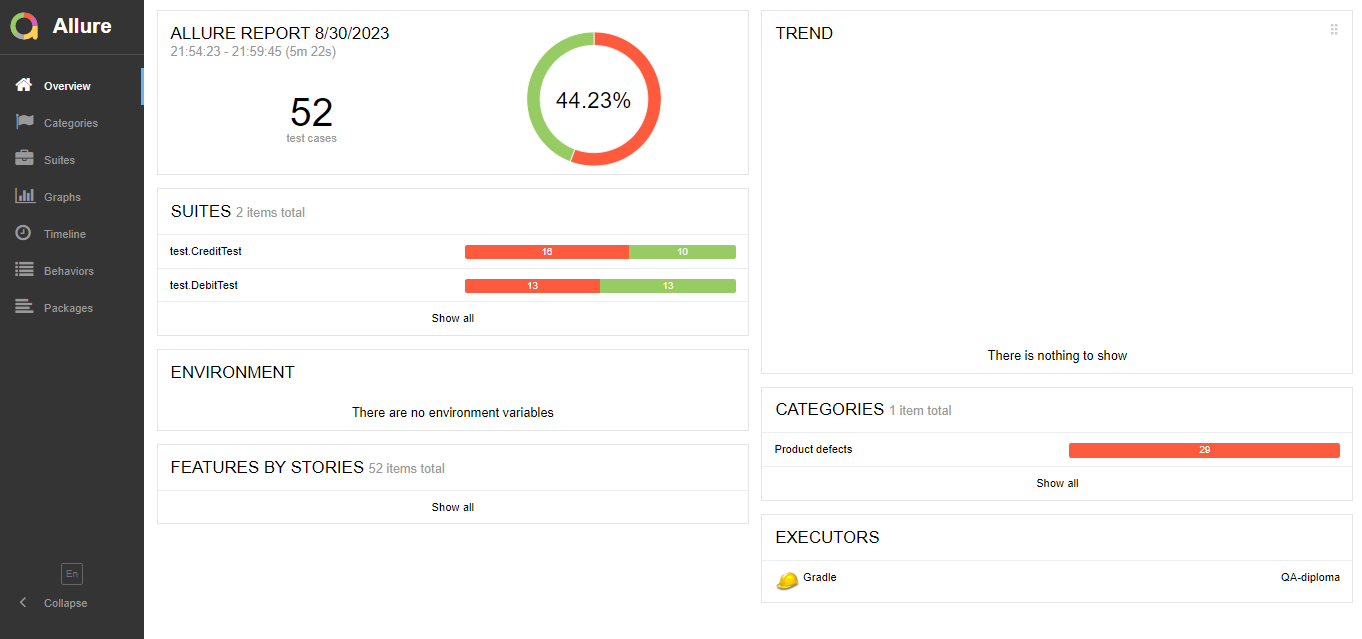
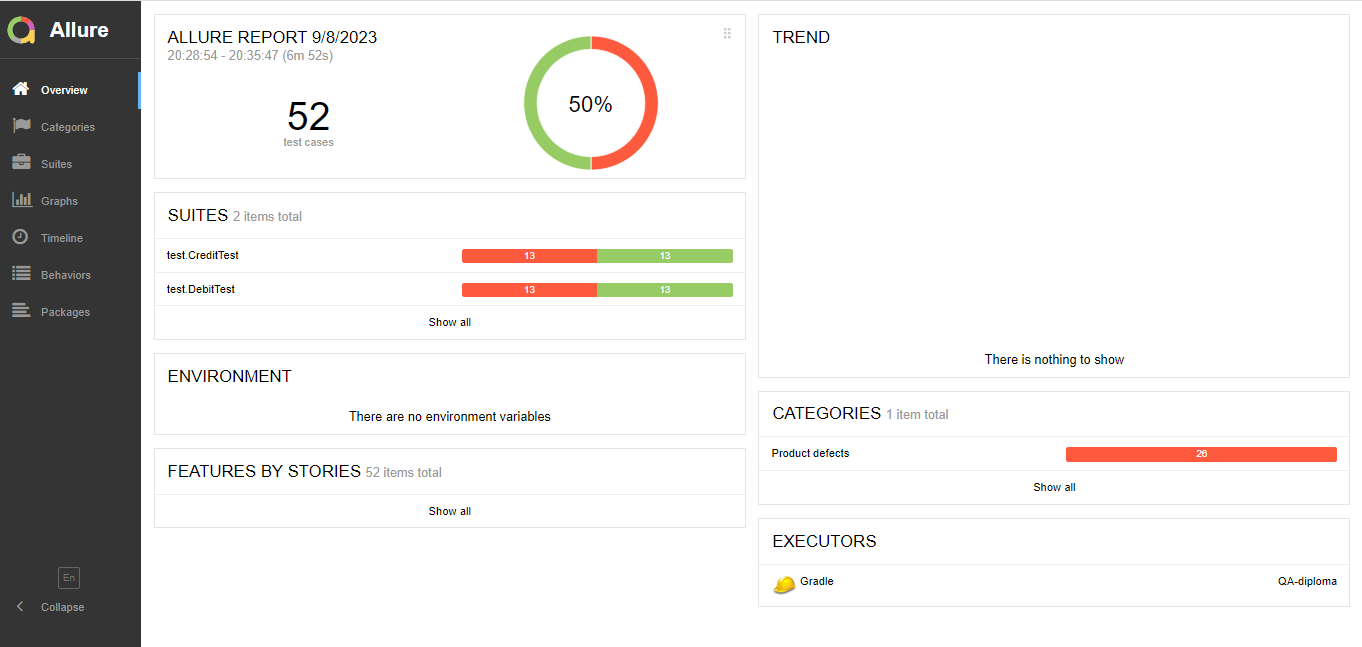
success 50%

diff --git a/src/test/java/page/DebitPage.java b/src/test/java/page/DebitPage.java
@@ -19,12 +19,12 @@ public class DebitPage {
 
     /*поля и кнопки*/
     private SelenideElement heading = $x("//h3[text()='Оплата по карте']");
-    private static SelenideElement cardNumberField = $x("//span[text()='Номер карты']/..//input");
-    private static SelenideElement monthField = $x("//span[text()='Месяц']/..//input");
-    private static SelenideElement yearField = $x("//span[text()='Год']/..//input");
-    private static SelenideElement holderField = $x("//span[text()='Владелец']/..//input");
-    private static SelenideElement cvvField = $x("//span[contains(text(),'CVV')]/..//input");
-    private static SelenideElement continueButton = $x("//span[text()='Продолжить']");
+    private SelenideElement cardNumberField = $x("//span[text()='Номер карты']/..//input");
+    private SelenideElement monthField = $x("//span[text()='Месяц']/..//input");
+    private SelenideElement yearField = $x("//span[text()='Год']/..//input");
+    private SelenideElement holderField = $x("//span[text()='Владелец']/..//input");
+    private SelenideElement cvvField = $x("//span[contains(text(),'CVV')]/..//input");
+    private SelenideElement continueButton = $x("//span[text()='Продолжить']");
 
     /*всплывающие сообщения*/
     private SelenideElement successNotification = $(".notification_status_ok");

diff --git a/src/test/java/data/SQLHelper.java b/src/test/java/data/SQLHelper.java
@@ -6,7 +6,6 @@ import org.apache.commons.dbutils.handlers.ScalarHandler;
 
 import java.sql.Connection;
 import java.sql.DriverManager;
-import java.sql.SQLException;
 
 
 public class SQLHelper {
@@ -31,8 +30,8 @@ public class SQLHelper {
         String statusSQL = "SELECT status FROM credit_request_entity ORDER BY created DESC LIMIT 1";
         return getResult(statusSQL);
     }
-
-    private static String getResult(String query) throws SQLException {
+    @SneakyThrows
+    private static String getResult(String query) {
         String result = "";
         var runner = new QueryRunner();
         try (var conn = qetConn()) {

diff --git a/docs/Report.md b/docs/Report.md
@@ -9,17 +9,16 @@
     - 3 позитивных;
     - 23 негативных.
 * 26 тест-кейсов на проверку покупки тура в кредит:
-    - 3 позитиынх;
+    - 3 позитивных;
     - 23 негативных.
 
 ## Процент успешности тест-кейсов
 
-Успешные тесты: 44,23%
+Успешные тесты: 50%
 
-Неуспешные тесты: 55,77%
+Неуспешные тесты: 50%
 
 ![](../pic/4.png)
-![](../pic/5.png)
 ![](../pic/1.png)
 ![](../pic/2.png)
 ![](../pic/3.png)
